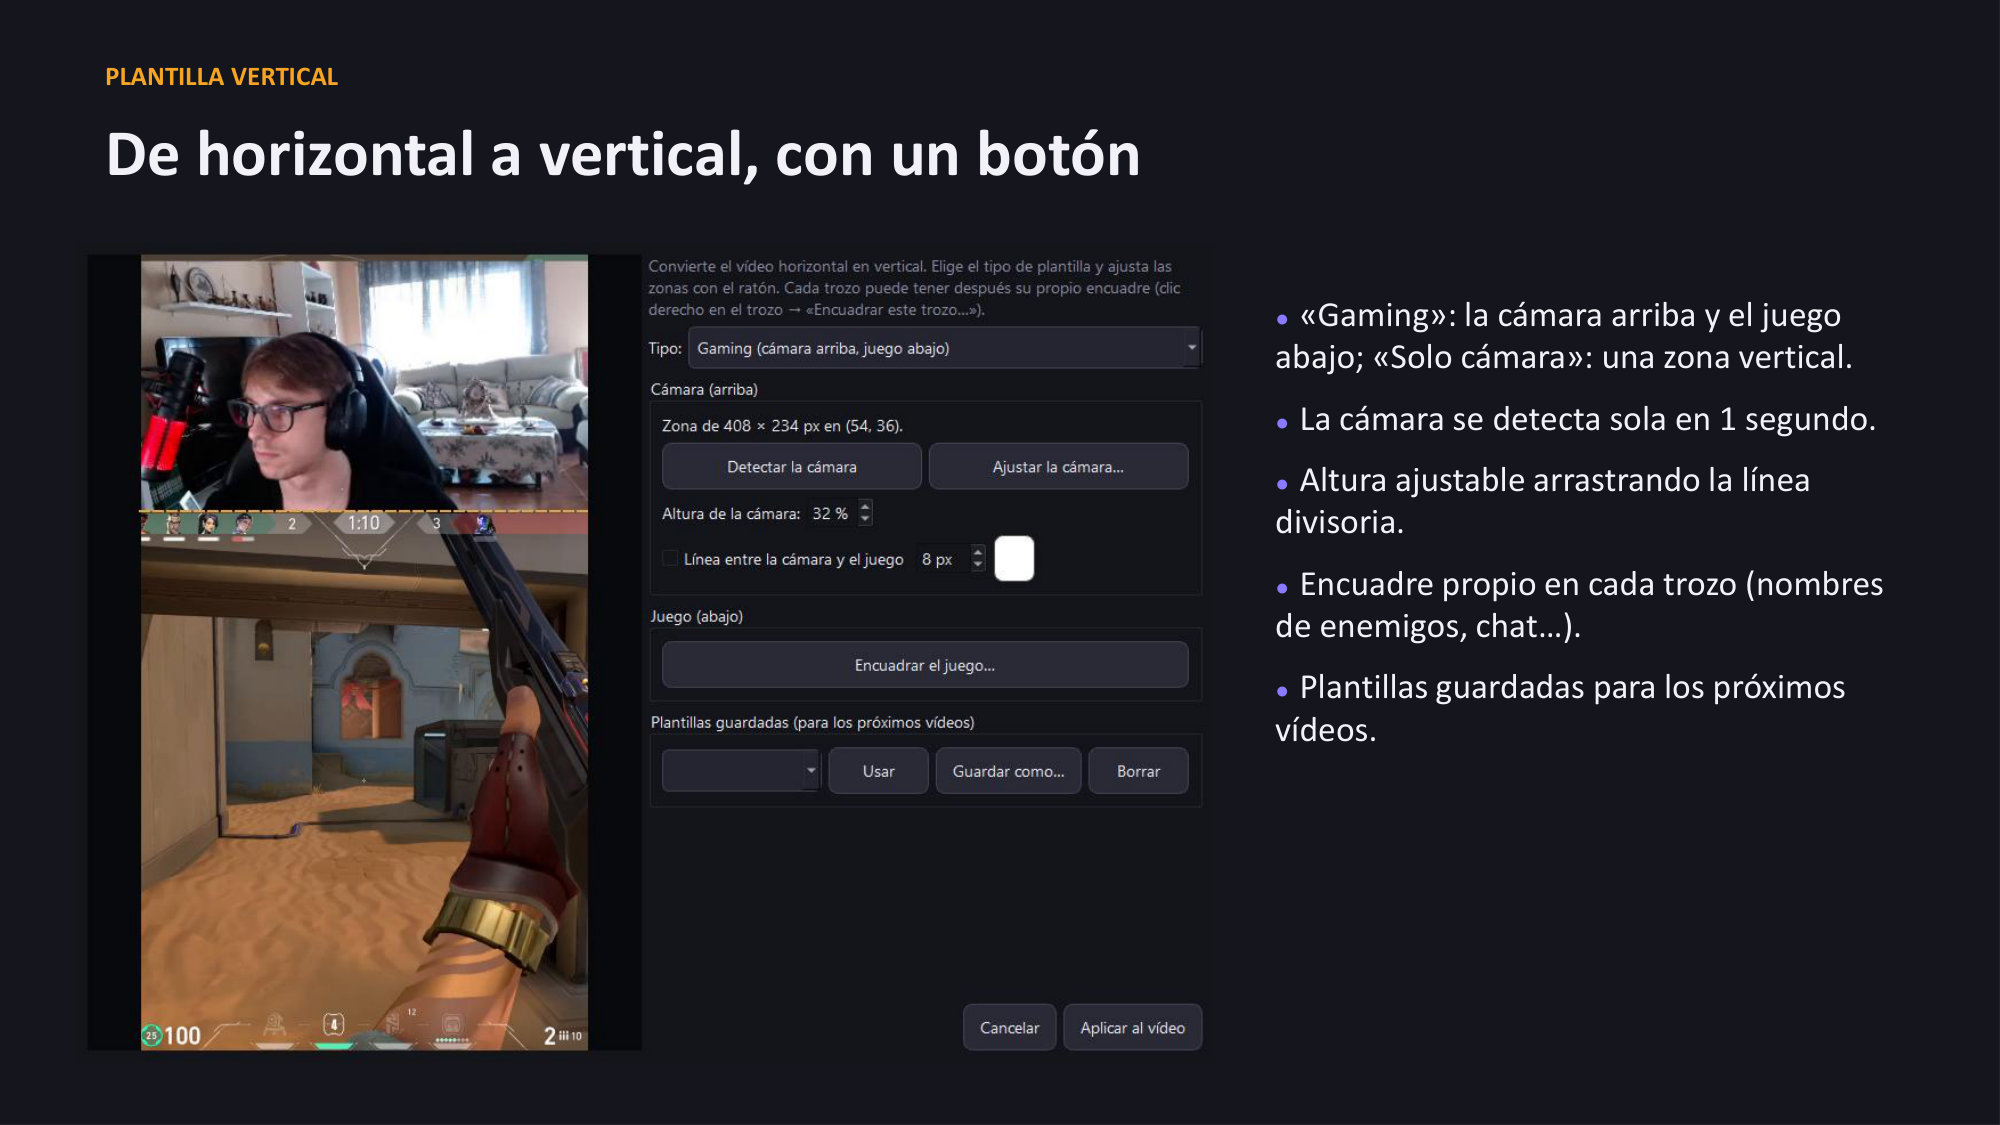
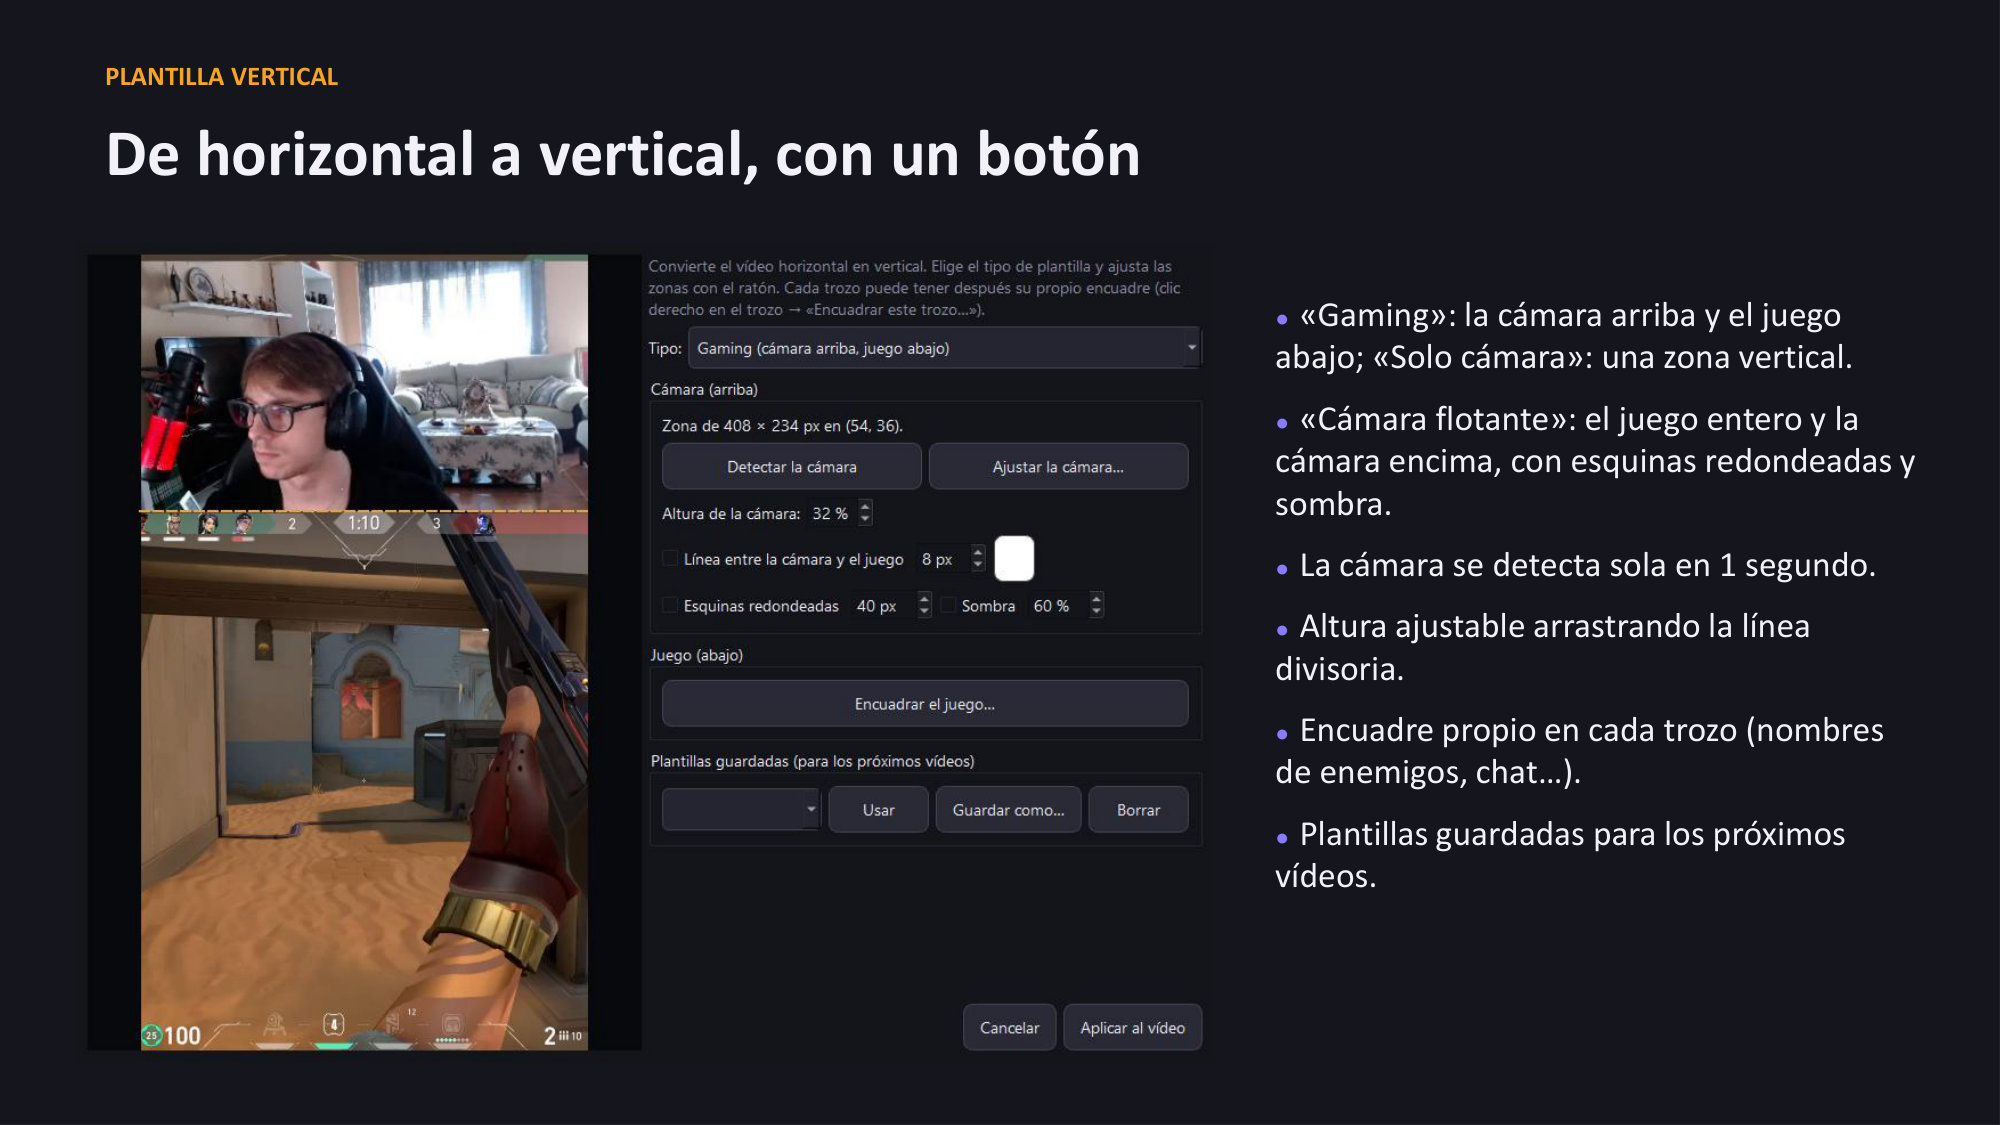
Presentación actualizada (01/11/2026)

Changed region(s): [[0.31, 0.3422, 0.961, 0.8089]]

diff --git a/index.html b/index.html
@@ -62,7 +62,7 @@ button:focus-visible { outline: 2px solid var(--amber); outline-offset: 2px; }
     <img src="diapositivas/07.jpg" alt="Diapositiva 7: SUBTÍTULOS Estilos, plantillas y efectos ●Karaoke, palabra a palabra y efecto «pop». ●Fuente, colores, contorno, sombra y caja. ●Estilo propio para cualquier pa">
     <img src="diapositivas/08.jpg" alt="Diapositiva 8: ELEMENTOS Imágenes, GIF, vídeos y música Posición, escala, recorte con el ratón y zoom por trozo. Música y sonidos con su volumen.">
     <img src="diapositivas/09.jpg" alt="Diapositiva 9: AUTOMATIZACIÓN Horas de edición, en segundos 13 s detectar las 11 partidas de un directo de 2 h 40 min 3 s cortar 20 min donde empieza y acaba la voz 1 clic bor">
-    <img src="diapositivas/10.jpg" alt="Diapositiva 10: PLANTILLA VERTICAL De horizontal a vertical, con un botón ●«Gaming»: la cámara arriba y el juego abajo; «Solo cámara»: una zona vertical. ●La cámara se detecta ">
+    <img src="diapositivas/10.jpg" alt="Diapositiva 10: PLANTILLA VERTICAL De horizontal a vertical, con un botón ●«Gaming»: la cámara arriba y el juego abajo; «Solo cámara»: una zona vertical. ●«Cámara flotante»: el">
     <img src="diapositivas/11.jpg" alt="Diapositiva 11: INSTRUCCIONES POR VOZ Dile lo que quieres y míralo hacerlo Un directo de 2 h 40 min después de una sola frase ●«Pásalo a vertical, quédate con la partida 1, la ">
     <img src="diapositivas/12.jpg" alt="Diapositiva 12: MULTIPLATAFORMA También en Mac Captura real en el Mac de la editora Acción Mac Deshacer / rehacer ⌘Z / ⌘⇧Z Cortar en el cabezal ⌘B Juntar palabras en una frase ">
     <img src="diapositivas/13.jpg" alt="Diapositiva 13: TECNOLOGÍA Cómo está hecho Python 3.13 Lenguaje de toda la aplicación. PySide6 (Qt 6.12) Interfaz de escritorio, vista previa y reproducción. Faster-Whisper 1.2">
